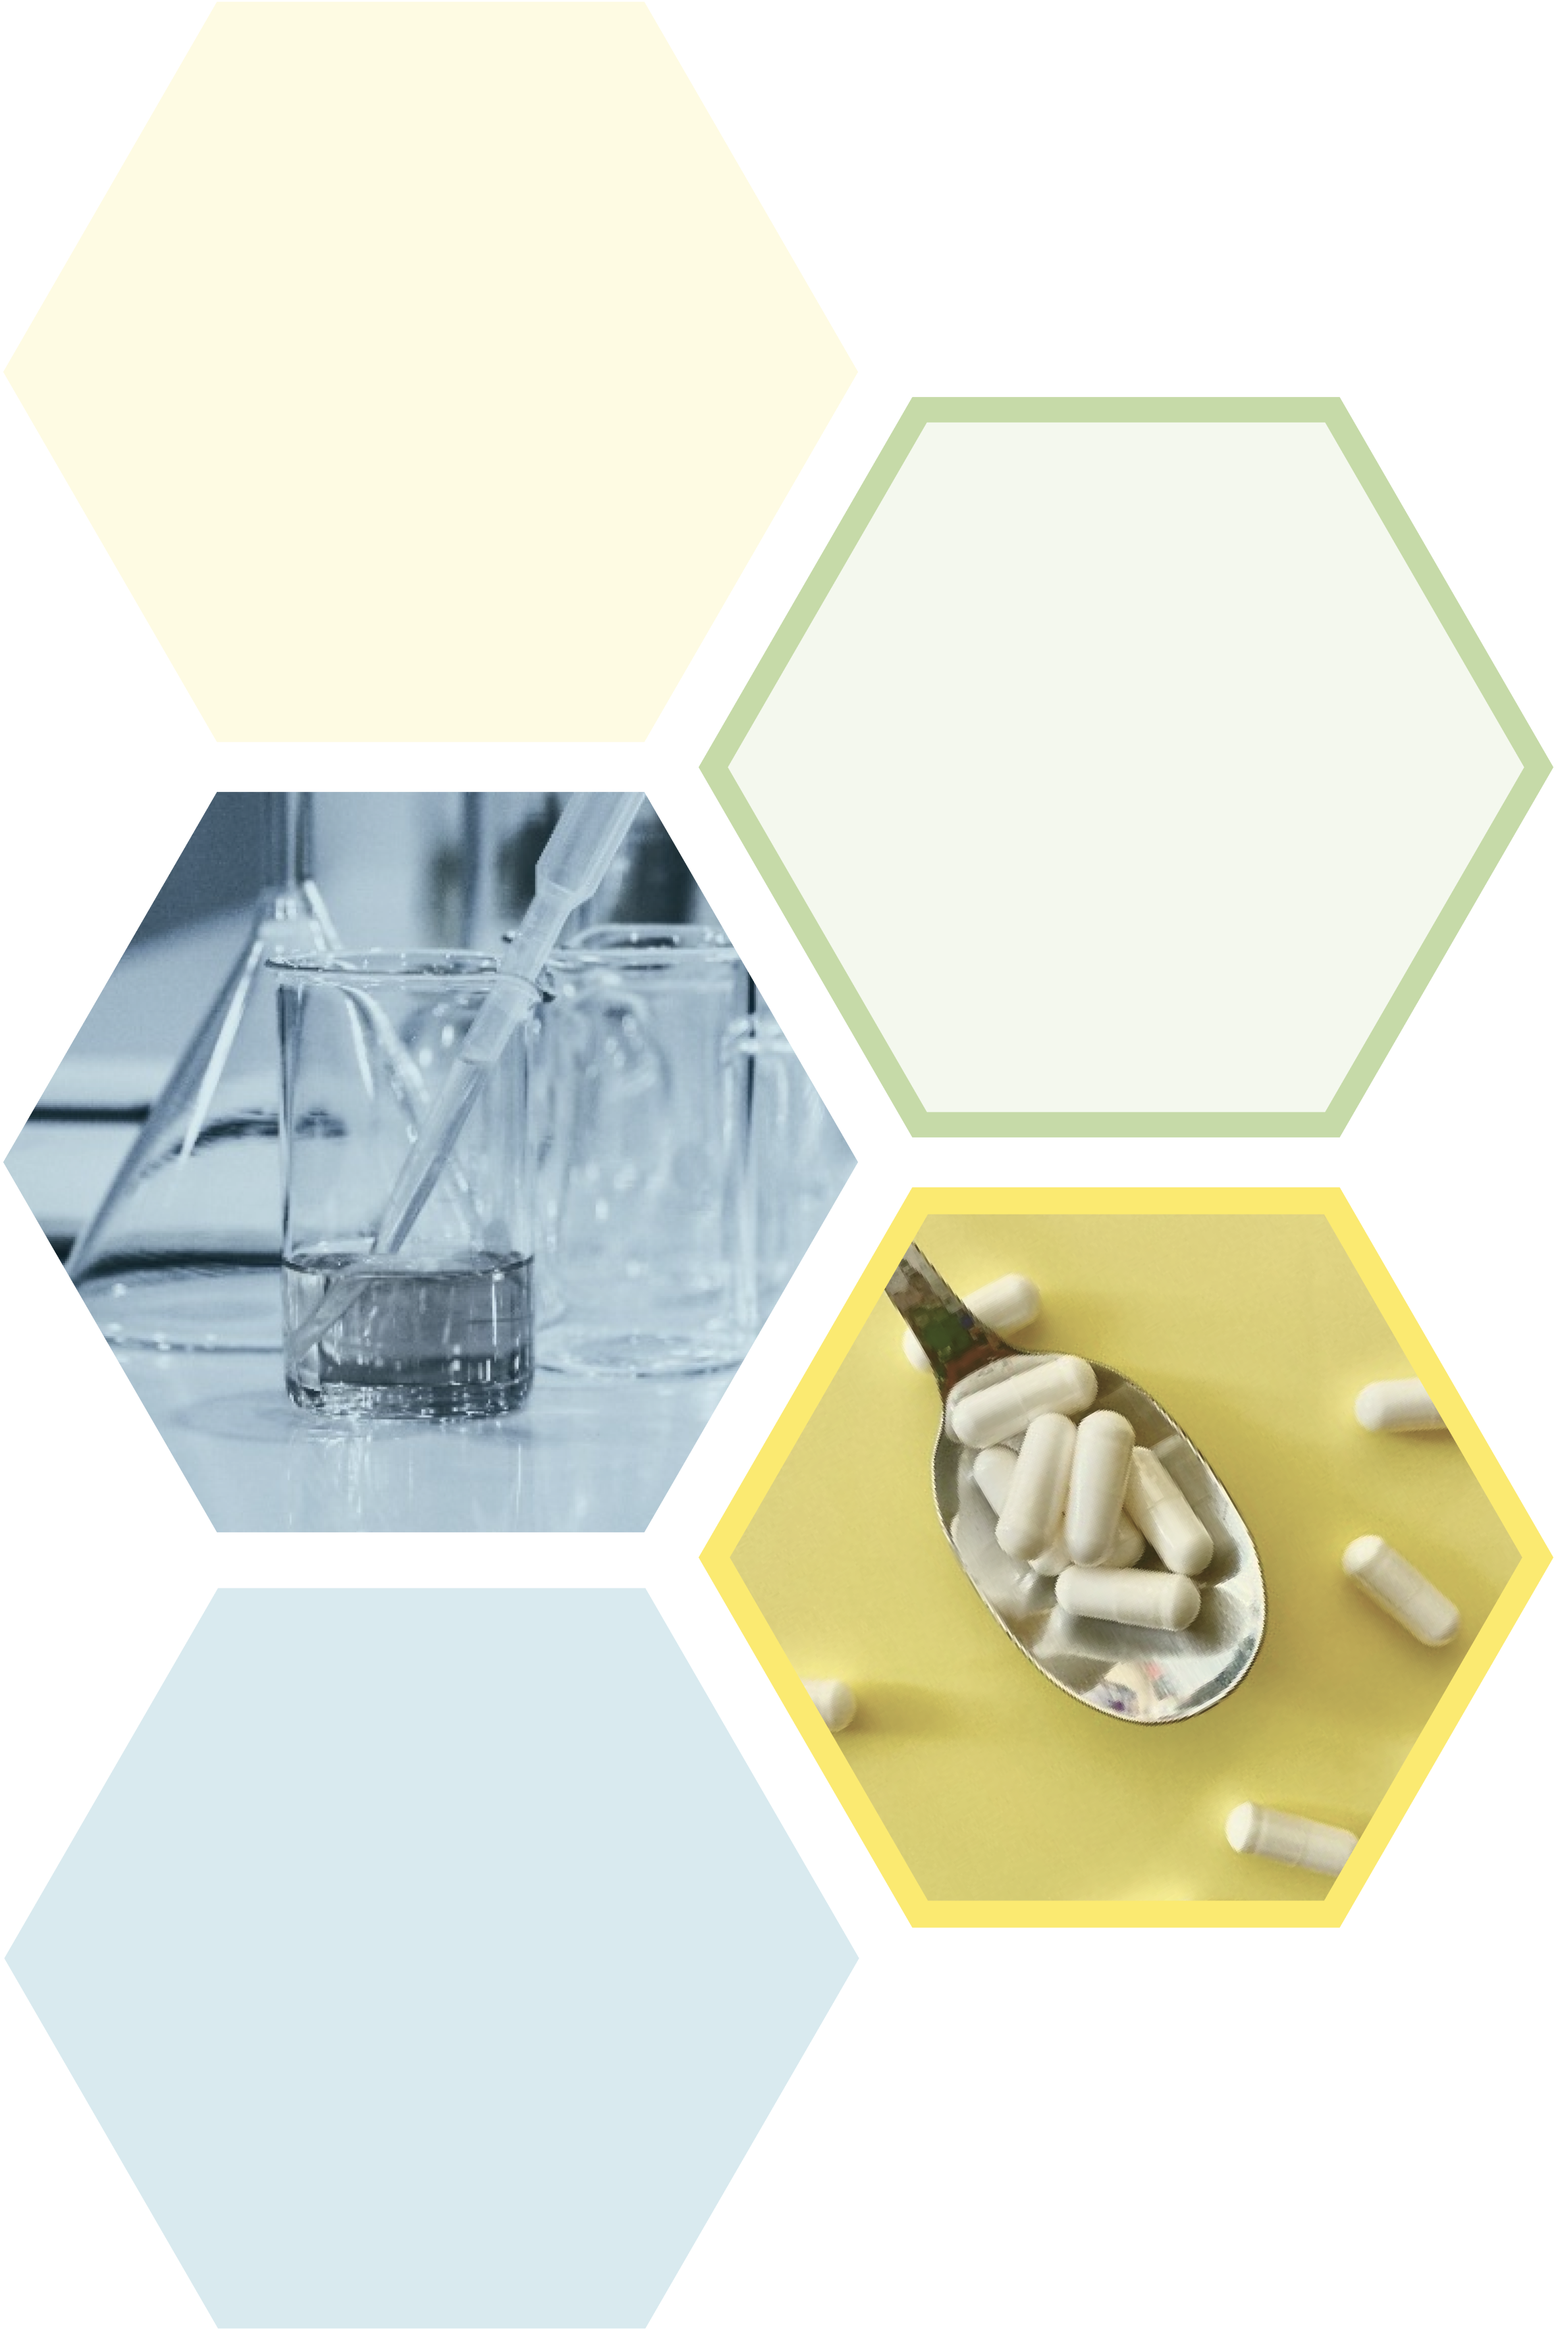
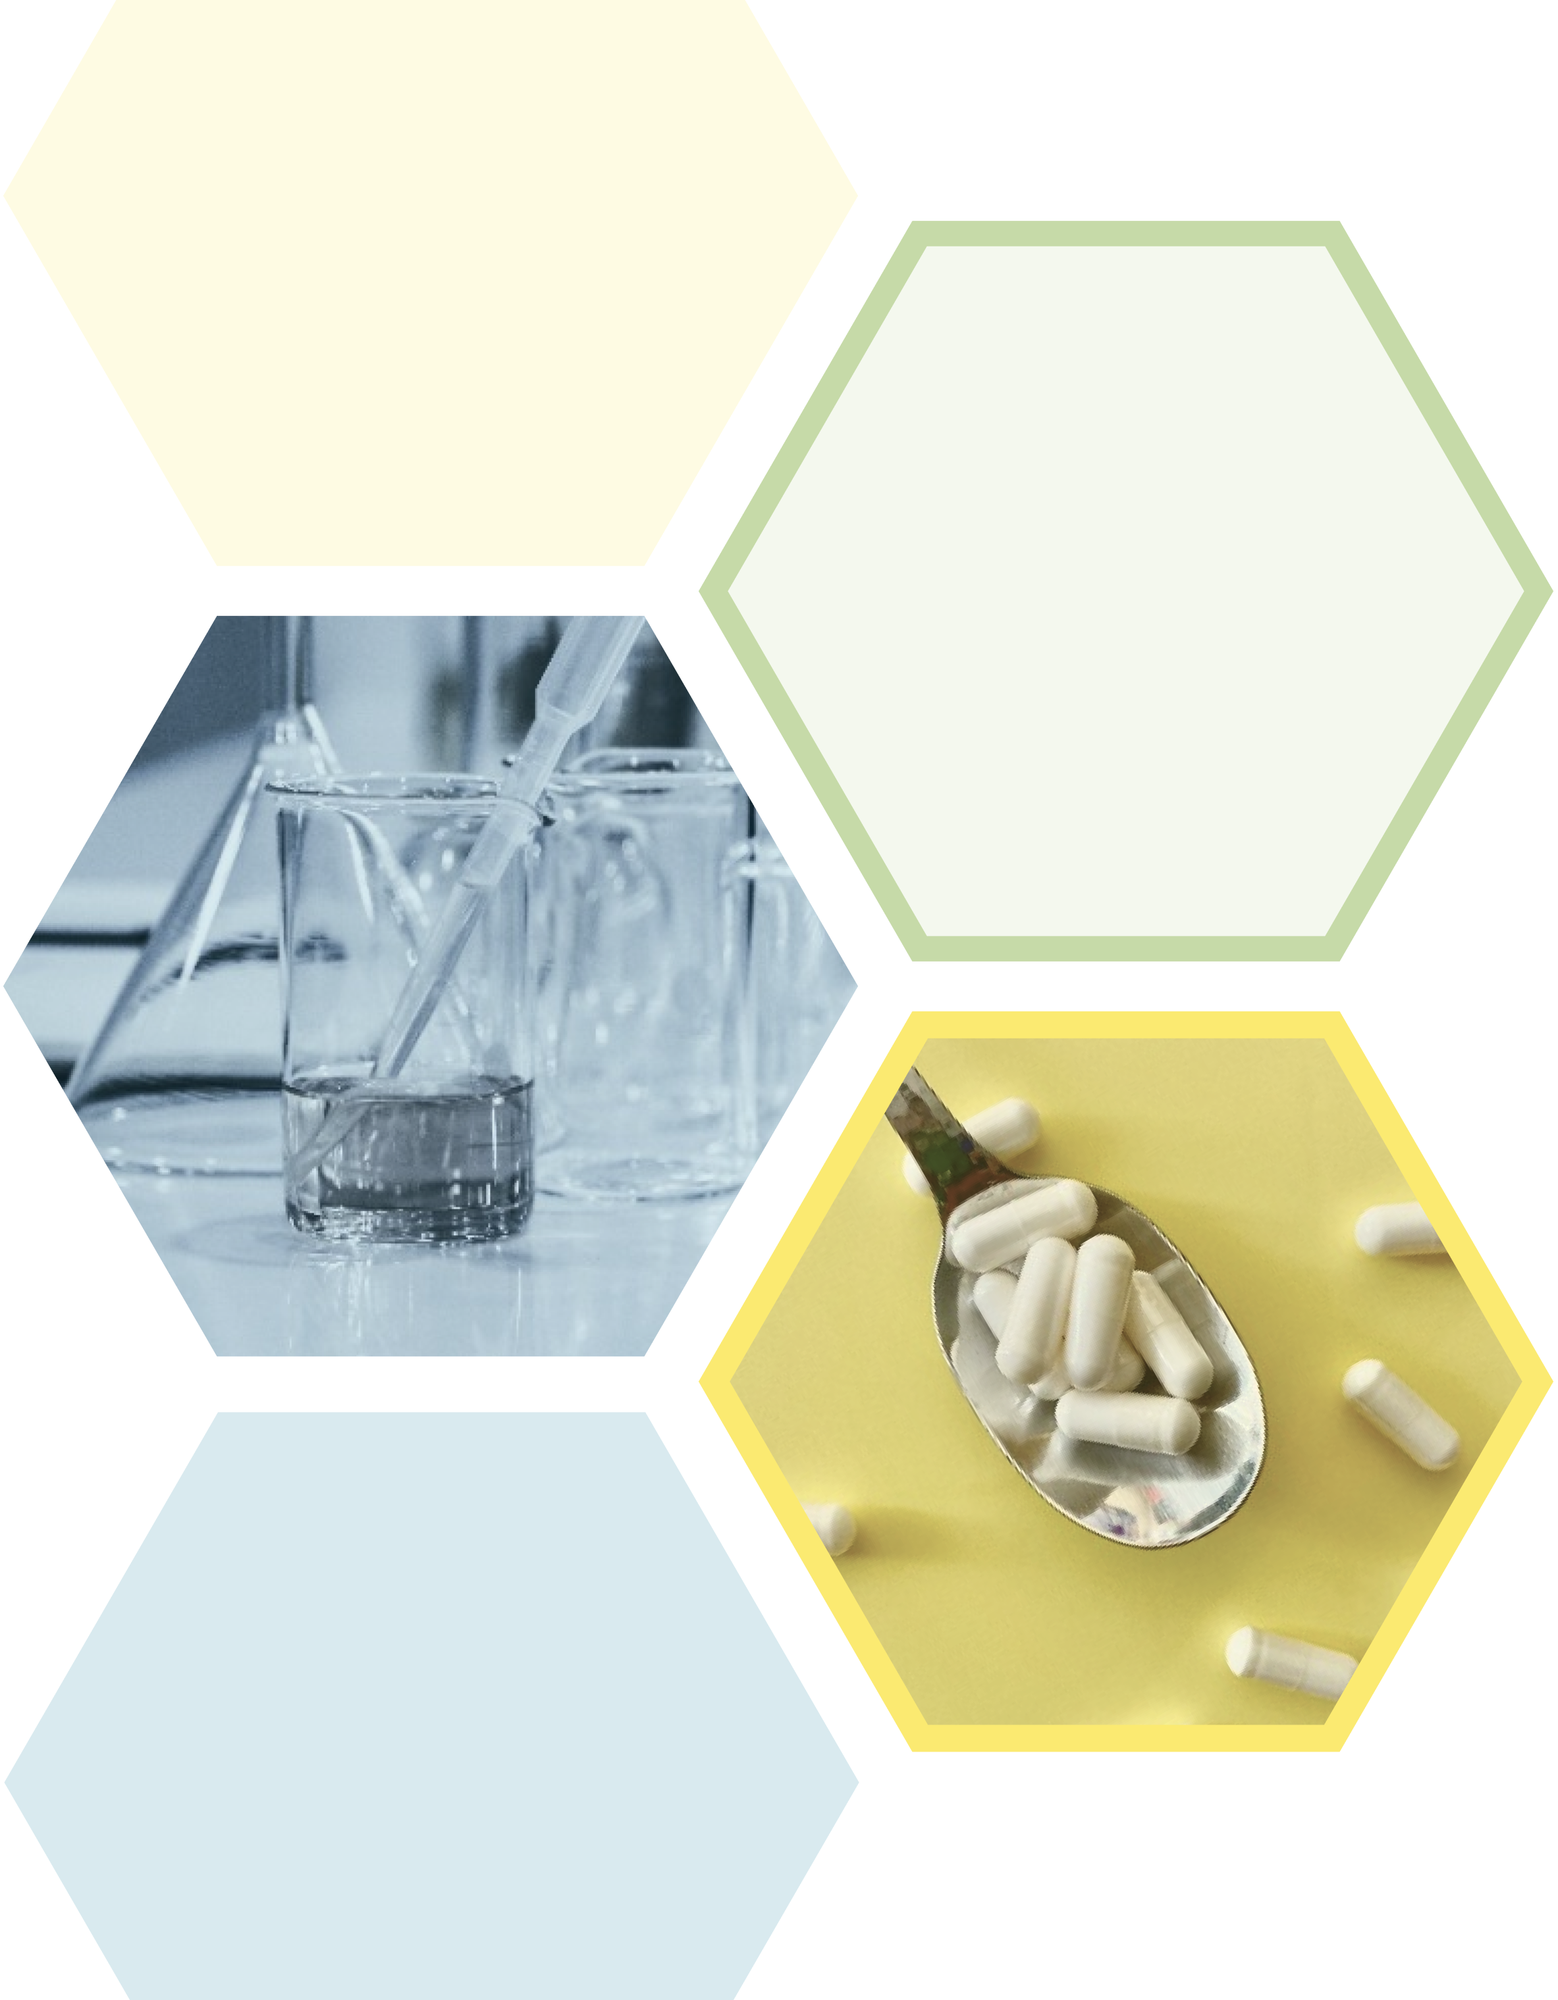
finished heros for all pages

Changed region(s): [[0.0, 0.0, 0.9983, 1.0], [0.0, 0.7144, 0.156, 1.0]]

diff --git a/src/components/join/membership.css b/src/components/join/membership.css
@@ -1,56 +1,59 @@
 .hero-section {
-    display: flex;
-    align-items: center;
-    justify-content: center;
-    background-color: #e8f0f2; /* Your background color */
-    padding: 50px 0; /* Adjust padding as needed */
-  }
-  
-  .hero-content {
+    position: relative;
+    height: 45rem;
+}
+
+#join-hero-image {
+    position: absolute;
+    top: 0;
+    left: 0;
+    height: 100%;
+}
+
+.hero-content {
     display: flex;
     align-items: center;
     justify-content: space-between;
     max-width: 1200px; /* Adjust width as needed */
     margin: 0 auto;
-  }
-  
-  .hero-image-membership {
+}
+
+.hero-image-membership {
     flex-basis: 60%;
     background-size: cover; /* Adjust size as needed */
-  }
-  
-  .hero-text {
+}
+
+.hero-text {
     flex-basis: 50%;
     padding-left: 50px; /* Adjust padding as needed */
-  }
-  
-  .hero-text h1 {
+}
+
+.hero-text h1 {
     margin-bottom: 20px; /* Adjust spacing as needed */
     font-size: 1.5rem;
-  }
-  
-  .hero-text p {
+}
+
+.hero-text p {
     margin-bottom: 10px; /* Adjust spacing as needed */
-    color: #4295AF
-  }
-  
-  .interest-button {
+    color: #4295af;
+}
+
+.interest-button {
     padding: 10px 20px; /* Adjust padding as needed */
-    background-color: #4295AF; /* Your button color */
+    background-color: #4295af; /* Your button color */
     color: white;
     border: none;
     cursor: pointer;
     transition: background-color 0.3s ease;
-  }
-  
-  .interest-button:hover {
-    background-color: #003459; /* Darker shade for hover effect */
-  }
+}
 
+.interest-button:hover {
+    background-color: #003459; /* Darker shade for hover effect */
+}
 
 /* BENEFITS SECTION STYLING */
 .membership-coloring {
-    color: #4296AF;
+    color: #4296af;
 }
 
 .benefits-section {
@@ -58,7 +61,7 @@
     flex-direction: row;
     height: 30vh;
     width: 100%;
-    background-color: #DDE9ED;
+    background-color: #dde9ed;
     padding: 3rem 0 2rem 0;
 }
 
@@ -109,5 +112,5 @@
     margin-left: 2rem;
     height: 60vh;
     width: 95%;
-    background-color: #F00;
+    background-color: #f00;
 }

diff --git a/src/components/join/membershipHeader.js b/src/components/join/membershipHeader.js
@@ -1,23 +1,27 @@
 import React from "react";
+import Header from "../Header/header";
 import "./membershipHeader.css"; // Import the CSS file
-import aboutus from "../../images/aboutus-hero.png";
 import heroMembership from "../../images/heroMembership.png";
 
 export default function MembershipHeader() {
     return (
-        <section className="membership-header">
-            <div className="membership-header-div">
-                <img id="membership-header-img" src={heroMembership} />
-            </div>
-            <div className="headerText">
-                <h1 class="headerh1">
-                    Anyone passionate about toxicology is welcome!
-                </h1>
-                <h1 class="headerh1">Our meetings are on Mondays 8–9 PM</h1>
-                <h1 class="headerh1">
-                    Simply fill out the interest form below
-                </h1>
-                <button className="interest-button">Interest Form</button>
+        <section id="join-hero" className="hero">
+            <Header></Header>
+            <div className="join-hero-container">
+                <div className="join-hero-content-container">
+                    <div className="join-hero-text-container">
+                        <h1 class="headerh1">
+                            Anyone passionate about toxicology is welcome!
+                        </h1>
+                        <h1 class="headerh1">
+                            Our meetings are on Mondays 8–9 PM
+                        </h1>
+                        <h1 class="headerh1">
+                            Simply fill out the interest form below
+                        </h1>
+                    </div>
+                    <button className="interest-button">Interest Form</button>
+                </div>
             </div>
         </section>
     );

diff --git a/src/components/join/Membership.js b/src/components/join/Membership.js
@@ -1,6 +1,6 @@
 import React from "react";
 import "./membership.css";
-import Header from "../Header/header";
+import HeroImage from "../../images/join-hero.png";
 import MembershipHeader from "./membershipHeader";
 import heroMembership from "../../images/heroMembership.png";
 import benefitsImage from "../../images/benefitsImage.png";
@@ -8,22 +8,9 @@ import benefitsImage from "../../images/benefitsImage.png";
 function Membership() {
     return (
         <>
-            <Header />
-            <MembershipHeader />
             <section className="hero-section">
-                <div className="hero-content">
-                    <div className="hero-image-membership">
-                        <img src={heroMembership} alt="Hero Membership Image" />
-                    </div>
-                    <div className="hero-text">
-                        <p>Anyone passionate about toxicology are welcome</p>
-                        <p>Our meetings are on Mondays 8–9 PM</p>
-                        <p>Simply fill out the interest form below</p>
-                        <button className="interest-button">
-                            Interest Form
-                        </button>
-                    </div>
-                </div>
+                <MembershipHeader />
+                <img id="join-hero-image" src={HeroImage}></img>
             </section>
             <section className="benefits-section">
                 <div className="benefits-text">

diff --git a/src/components/join/membershipHeader.css b/src/components/join/membershipHeader.css
@@ -1,25 +1,37 @@
-.headerText {
-    color: #4295AF;
-    margin-top: 200px;
-    text-align: left;
-    margin-bottom: 24px;
-    margin-left: 800px;
-    margin-right: 42px;
- }
- 
- 
-#membership-header-img {
-    max-width: 100%;       /* Adjust based on the desired size of your image */
-    height: auto;         /* Maintain aspect ratio */
-    position: absolute;
-    top: 0;
-    left: 0;
- }
- 
-.membership-header {
-    height: 60vh;
+.join-hero-container {
+    display: flex;
+    height: 100%;
+    flex-direction: column;
+    justify-content: center;
+    align-items: flex-end;
+    align-self: stretch;
 }
 
-.headerh1 {
-    font-size: 32px;
+.join-hero-content-container {
+    display: flex;
+    flex-direction: column;
+    justify-content: center;
+    align-items: flex-start;
+    margin-right: 10rem;
+    gap: 3.75rem;
+}
+
+.join-hero-text-container {
+    display: flex;
+    flex-direction: column;
+    justify-content: center;
+    align-items: flex-start;
+    gap: 0.9375rem;
+    align-self: stretch;
+}
+
+.join-hero-text-container h1 {
+    align-self: stretch;
+    color: var(--primary);
+    font-family: "Plus Jakarta Sans";
+    font-size: 1.5rem;
+    font-style: normal;
+    font-weight: 700;
+    line-height: 2.5rem;
+    margin: 0;
 }

diff --git a/src/components/Header/header.js b/src/components/Header/header.js
@@ -15,7 +15,9 @@ function Header() {
                 <a href="/about" color="4295AF">
                     About Us
                 </a>
-                <a href="/opportunities">Opportunities</a>
+                <a href="https://padlet.com/natalieoh2/toxsa-database-fkzjzhy5hrek34kv">
+                    Opportunities
+                </a>
                 <a href="/join" id="signup-link">
                     Become a Member
                 </a>
